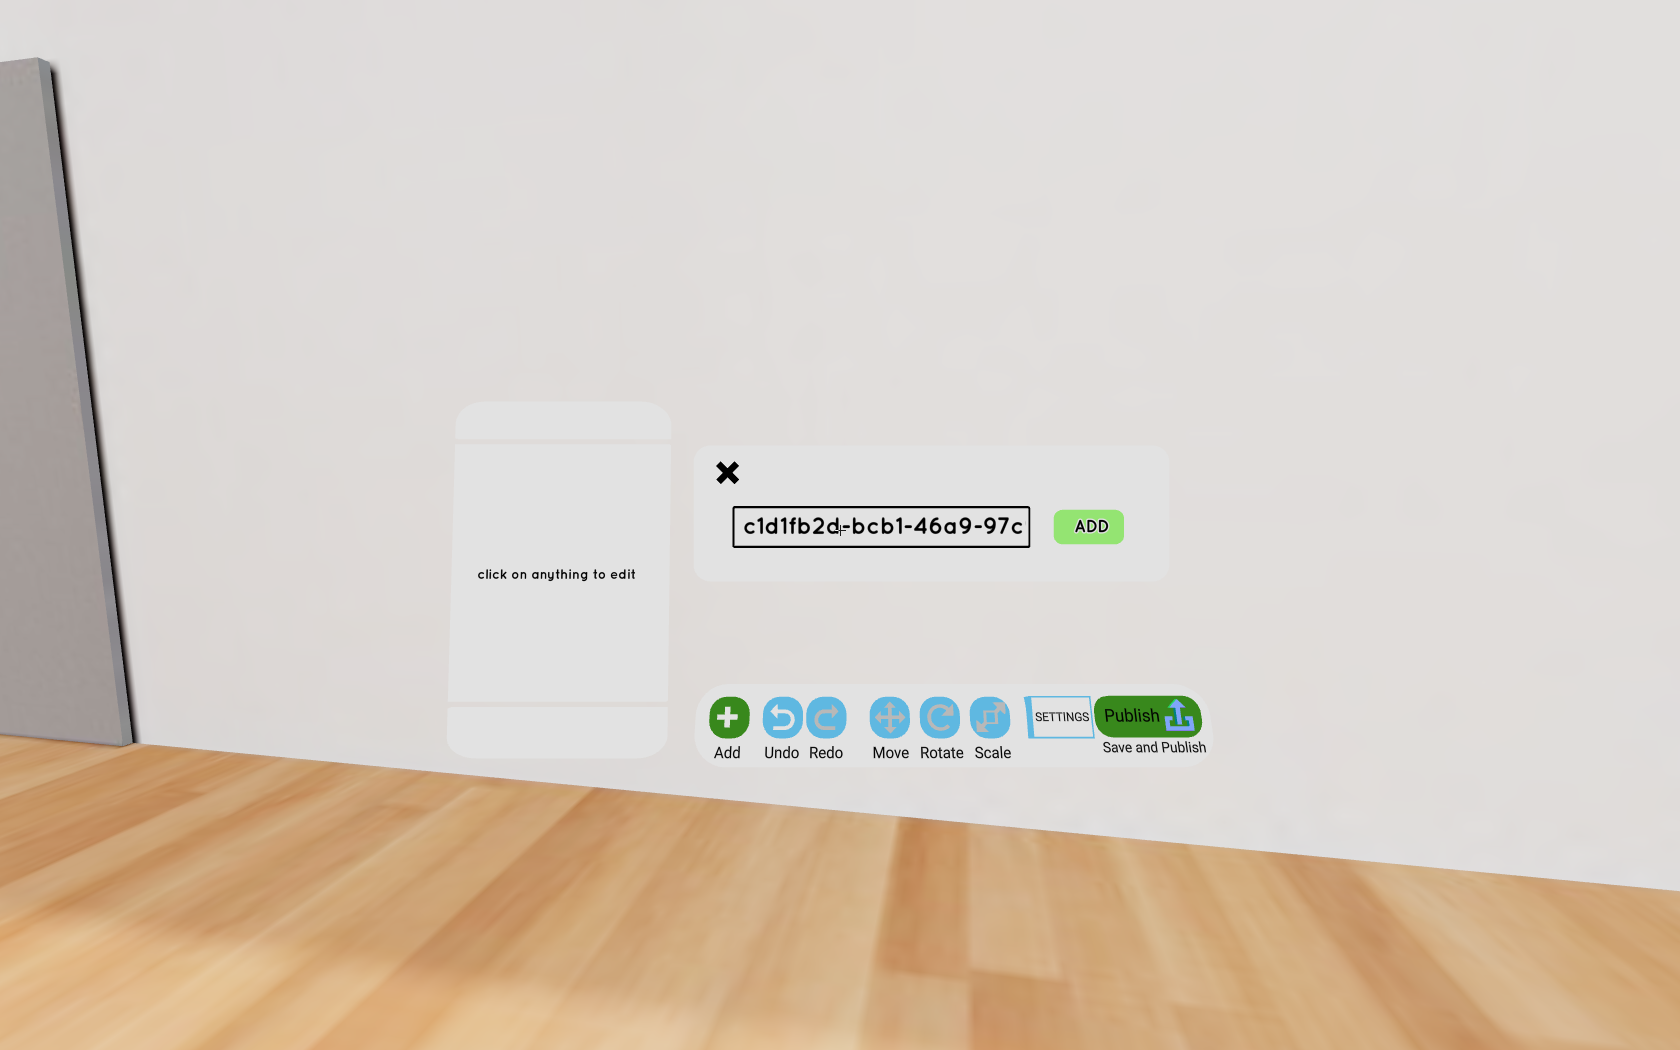
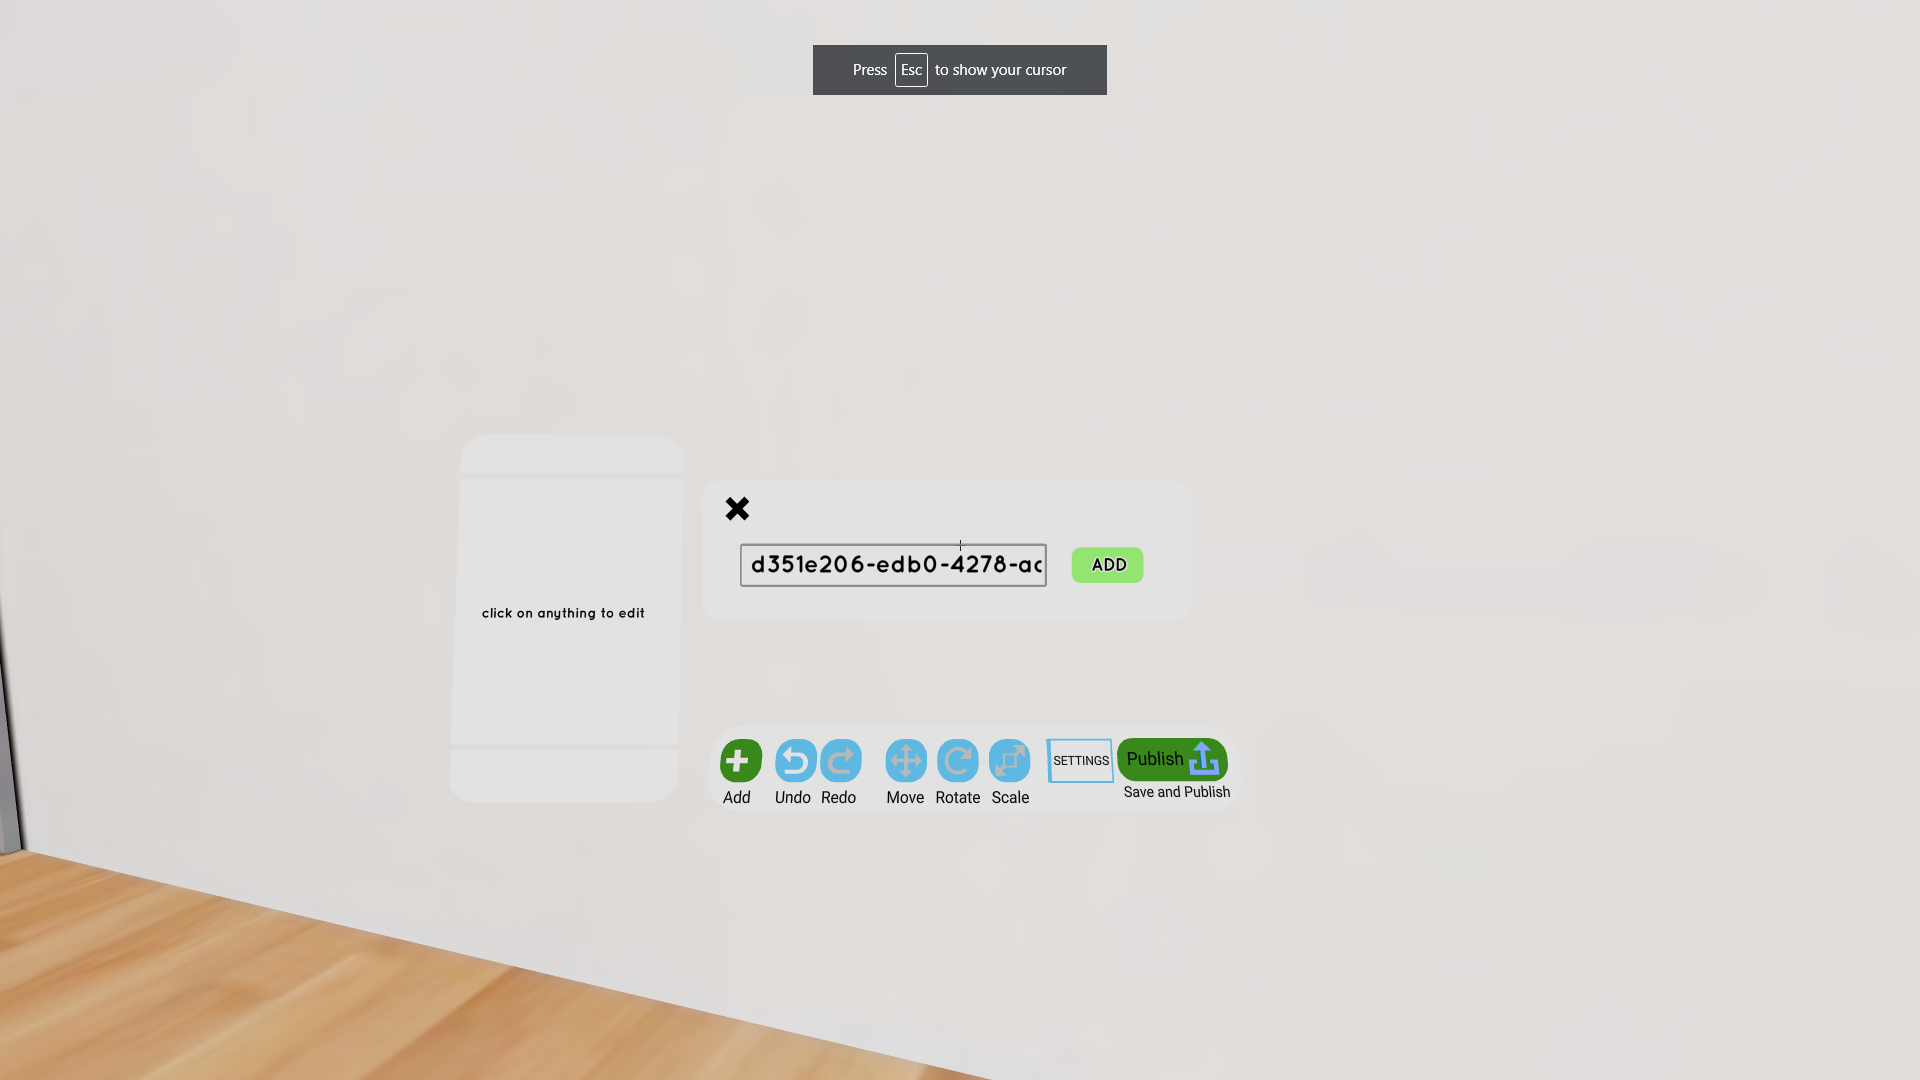
GitBook: [#205] Update Muse integration instructions

diff --git a/guides/for-creators/platform-integrations/muse.md b/guides/for-creators/platform-integrations/muse.md
@@ -25,7 +25,7 @@ Press Tab to open the build menu, then click "Add". This shows you the different
 Click "Specify" and then paste in this identifier that corresponds to the Zesty Banner:
 
 ```
-c1d1fb2d-bcb1-46a9-97c9-f0ba1bd3d81f
+d351e206-edb0-4278-adc6-5b79d6a91464
 ```
 
 ![](../../../.gitbook/assets/muse2.png)
@@ -44,7 +44,7 @@ Select the banner, then fill out the following fields to line up with your space
 * Space: Your space ID on the marketplace. Should be a number.
 * Format: The shape of your banner. Should be `tall`, `wide`, or `square`.
 * Style: The style of your default banner when no campaign is currently running on it. Should be `standard`, `minimal`, or `transparent`.
-* Beacon: Whether beacon analytics are turned on or off.
+* Disable Beacon: Whether to opt out of sending analytics to Zesty's beacon service.
 
 ![](../../../.gitbook/assets/muse5.png)
 
